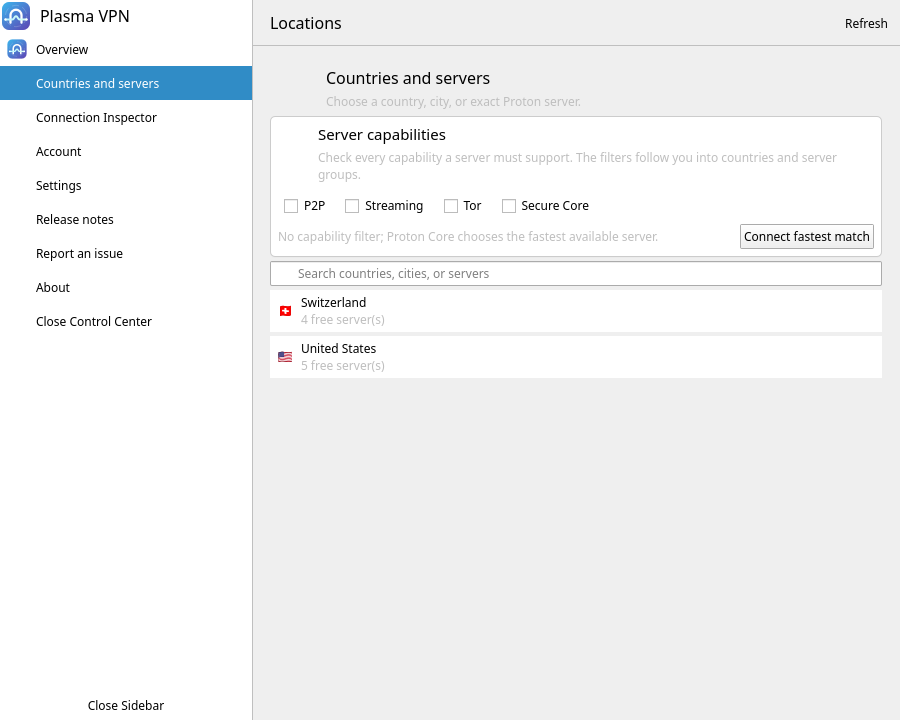
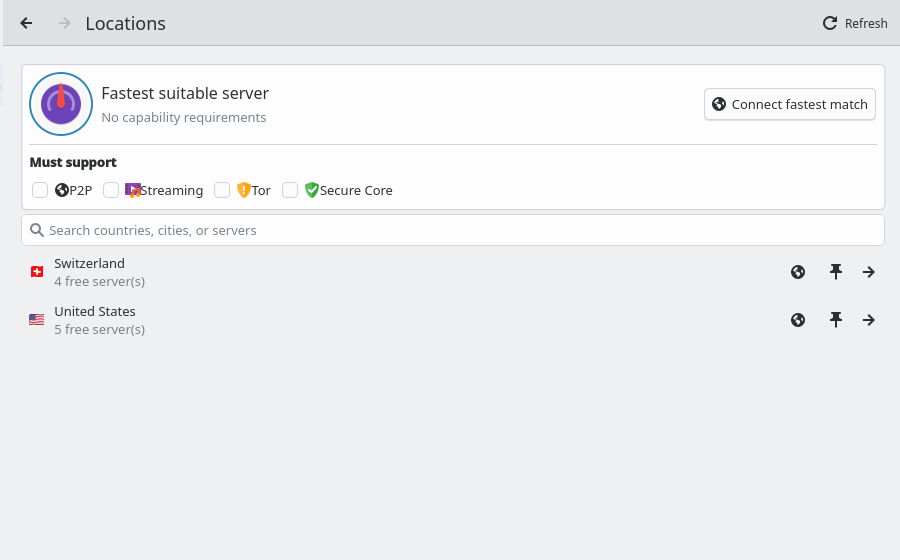
Refine server discovery hierarchy

diff --git a/qml/LocationsPage.qml b/qml/LocationsPage.qml
@@ -13,6 +13,27 @@ Kirigami.Page {
     readonly property bool searching: searchField.text.trim().length > 0
     property var requiredCapabilities: []
 
+    function capabilityName(capability) {
+        const labels = {
+            "p2p": qsTr("P2P"),
+            "streaming": qsTr("Streaming"),
+            "tor": qsTr("Tor"),
+            "secure-core": qsTr("Secure Core")
+        }
+        return labels[capability] ?? capability
+    }
+
+    function capabilitySummary() {
+        if (requiredCapabilities.length === 0) {
+            return qsTr("No capability requirements")
+        }
+        const labels = []
+        for (const capability of requiredCapabilities) {
+            labels.push(capabilityName(capability))
+        }
+        return labels.join(" + ")
+    }
+
     function openCountry(code, name, flag, accessible, underMaintenance) {
         applicationWindow().pushCountry({
                 "countryCode": code,
@@ -155,57 +176,102 @@ Kirigami.Page {
         anchors.fill: parent
         spacing: Kirigami.Units.smallSpacing
 
-        PageHeader {
-            heading: qsTr("Countries and servers")
-            description: qsTr("Choose a country, city, or exact Proton server.")
-            iconName: "network-server"
-        }
+        Kirigami.AbstractCard {
+            id: fastestCard
 
-        SectionCard {
-            title: qsTr("Server capabilities")
-            description: qsTr("Check every capability a server must support. The filters follow you into countries and server groups.")
-            iconName: "speedometer"
+            objectName: "fastestServerCard"
+            Layout.fillWidth: true
 
-            ServerCapabilitySelector {
-                Layout.fillWidth: true
-                selectedFeatures: page.requiredCapabilities
-                enabled: vpnController.userTier > 0
-                onSelectionChanged: function(features) {
-                    page.requiredCapabilities = features
+            contentItem: ColumnLayout {
+                spacing: Kirigami.Units.largeSpacing
+
+                RowLayout {
+                    Layout.fillWidth: true
+                    spacing: Kirigami.Units.largeSpacing
+
+                    Rectangle {
+                        Layout.preferredWidth: Kirigami.Units.iconSizes.huge
+                        Layout.preferredHeight: Kirigami.Units.iconSizes.huge
+                        radius: width / 2
+                        color: Kirigami.Theme.backgroundColor
+                        border.width: 2
+                        border.color: Kirigami.Theme.linkColor
+
+                        Rectangle {
+                            anchors.centerIn: parent
+                            width: parent.width - Kirigami.Units.largeSpacing
+                            height: width
+                            radius: width / 2
+                            color: Kirigami.Theme.alternateBackgroundColor
+                        }
+
+                        Kirigami.Icon {
+                            anchors.centerIn: parent
+                            source: "speedometer"
+                            color: Kirigami.Theme.linkColor
+                            implicitWidth: Kirigami.Units.iconSizes.large
+                            implicitHeight: implicitWidth
+                        }
+                    }
+
+                    ColumnLayout {
+                        Layout.fillWidth: true
+                        spacing: Kirigami.Units.smallSpacing
+
+                        Kirigami.Heading {
+                            Layout.fillWidth: true
+                            level: 2
+                            text: qsTr("Fastest suitable server")
+                            wrapMode: Text.WordWrap
+                        }
+
+                        Controls.Label {
+                            Layout.fillWidth: true
+                            text: page.capabilitySummary()
+                            color: page.requiredCapabilities.length > 0
+                                   ? Kirigami.Theme.linkColor
+                                   : Kirigami.Theme.disabledTextColor
+                            wrapMode: Text.WordWrap
+                        }
+                    }
+
+                    Controls.Button {
+                        text: qsTr("Connect fastest match")
+                        icon.name: "network-connect"
+                        enabled: vpnController.primaryActionEnabled
+                                 && (page.requiredCapabilities.length === 0
+                                     || vpnController.userTier > 0)
+                        onClicked: vpnController.connectFastestWithFeatures(
+                            page.requiredCapabilities)
+                    }
                 }
-            }
 
-            RowLayout {
-                Layout.fillWidth: true
+                Kirigami.Separator {
+                    Layout.fillWidth: true
+                }
 
                 Controls.Label {
                     Layout.fillWidth: true
-                    text: vpnController.userTier === 0
-                          ? qsTr("Specialized servers require Proton VPN Plus.")
-                          : page.requiredCapabilities.length === 0
-                            ? qsTr("No capability filter; Proton Core chooses the fastest available server.")
-                            : qsTr("Only servers matching every checked capability are eligible.")
+                    text: qsTr("Must support")
+                    font.bold: true
+                }
+
+                ServerCapabilitySelector {
+                    Layout.fillWidth: true
+                    selectedFeatures: page.requiredCapabilities
+                    enabled: vpnController.userTier > 0
+                    onSelectionChanged: function(features) {
+                        page.requiredCapabilities = features
+                    }
+                }
+
+                Controls.Label {
+                    Layout.fillWidth: true
+                    visible: vpnController.userTier === 0
+                    text: qsTr("Specialized servers require Proton VPN Plus.")
                     color: Kirigami.Theme.disabledTextColor
                     wrapMode: Text.WordWrap
                 }
-
-                Controls.Button {
-                    text: qsTr("Connect fastest match")
-                    icon.name: "network-connect"
-                    enabled: vpnController.primaryActionEnabled
-                             && (page.requiredCapabilities.length === 0
-                                 || vpnController.userTier > 0)
-                    onClicked: vpnController.connectFastestWithFeatures(
-                        page.requiredCapabilities)
-                }
-            }
-
-            Controls.Label {
-                Layout.fillWidth: true
-                visible: page.requiredCapabilities.length > 0
-                text: qsTr("Countries remain visible for navigation; incompatible groups and exact servers are hidden as you browse.")
-                color: Kirigami.Theme.disabledTextColor
-                wrapMode: Text.WordWrap
             }
         }
 

diff --git a/qml/ReleaseNotesPage.qml b/qml/ReleaseNotesPage.qml
@@ -84,6 +84,7 @@ Kirigami.ScrollablePage {
                     qsTr("An upper-right gear keeps diagnostics and project information close, while native Back navigation replaces the permanent sidebar."),
                     qsTr("Overview visualizes this device, its encrypted tunnel, and the VPN destination while keeping one obvious connection action."),
                     qsTr("Exact server, protocol, Secure Core entry, and forwarded-port facts now appear as compact icon-led controls on Connection; selecting them opens the relevant settings, Inspector, or copy action."),
+                    qsTr("Server discovery now leads with one graphical fastest-suitable action, keeps selected requirements visible, and uses native icon-led checkboxes before country and exact-server browsing."),
                     qsTr("Release notes are grouped into short, scannable changes, while earlier history stays collapsed until requested.")
                 ]
             }

diff --git a/qml/ServerCapabilitySelector.qml b/qml/ServerCapabilitySelector.qml
@@ -31,24 +31,28 @@ Flow {
 
     Controls.CheckBox {
         text: qsTr("P2P")
+        icon.name: "folder-network"
         checked: root.selectedFeatures.indexOf("p2p") >= 0
         onToggled: root.updateFeature("p2p", checked)
     }
 
     Controls.CheckBox {
         text: qsTr("Streaming")
+        icon.name: "applications-multimedia"
         checked: root.selectedFeatures.indexOf("streaming") >= 0
         onToggled: root.updateFeature("streaming", checked)
     }
 
     Controls.CheckBox {
         text: qsTr("Tor")
+        icon.name: "security-medium"
         checked: root.selectedFeatures.indexOf("tor") >= 0
         onToggled: root.updateFeature("tor", checked)
     }
 
     Controls.CheckBox {
         text: qsTr("Secure Core")
+        icon.name: "security-high"
         checked: root.selectedFeatures.indexOf("secure-core") >= 0
         onToggled: root.updateFeature("secure-core", checked)
     }

diff --git a/docs/ROADMAP.md b/docs/ROADMAP.md
@@ -43,16 +43,13 @@ The implementation constraints are:
 
 ### Delivery sequence
 
-1. Make server discovery progress from fastest suitable connection, through
-   visible capability criteria, to country, city, state, and exact-server
-   selection.
-2. Group Settings by user intent and disclose uncommon choices beside the
+1. Group Settings by user intent and disclose uncommon choices beside the
    setting they refine; keep applied changes on the same page.
-3. Refine sign-in, two-factor, security-key, Secret Service approval, error,
+2. Refine sign-in, two-factor, security-key, Secret Service approval, error,
    and recovery presentation without altering their established sequencing.
-4. Treat Connection Inspector, release history, support status, and technical
+3. Treat Connection Inspector, release history, support status, and technical
    details as on-demand depth rather than primary navigation competition.
-5. Verify compact and wide windows, keyboard-only use, screen-reader names,
+4. Verify compact and wide windows, keyboard-only use, screen-reader names,
    1.5x text, right-to-left layout, light and dark schemes, high contrast, and
    reduced motion before repeating the full release battery.
 
@@ -65,7 +62,6 @@ replace them.
 
 | Current surface | What already works | Presentation debt to resolve |
 | --- | --- | --- |
-| Countries and servers | Full hierarchy, search, capability combinations, pins, and fastest match | Establish a visible path from intent to criteria to exact server and keep selected criteria recognizable |
 | Settings | Complete native controls grouped into focused components | Lead with common outcomes and reveal exceptions locally instead of showing every choice with equal emphasis |
 | Sign in and Account | Correct startup routing and explicit multi-step authentication | Present only the active authentication step while keeping Secret Service waits and recovery unmistakable |
 | Connection Inspector | Bounded, read-only, on-demand detail | Open it from connection context and secondary navigation rather than competing with daily connection tasks |

diff --git a/docs/VISUAL-SYSTEM.md b/docs/VISUAL-SYSTEM.md
@@ -34,6 +34,13 @@ server, protocol, Secure Core entry, and forwarded-port facts remain compact,
 icon-led, and visible on the surface only when relevant. Selecting one opens the
 appropriate settings, copy action, or richer on-demand Inspector.
 
+Server discovery follows the same visual grammar without forcing list data
+into decorative cards. A single icon-led fastest-suitable surface states the
+current capability requirements and owns the primary connect action. Native
+checkboxes keep P2P, Streaming, Tor, and Secure Core requirements explicit;
+search and ordinary Plasma list rows then provide country, group, pin, load,
+and exact-server depth.
+
 Revealed content must not unexpectedly move the user to another page, reorder
 unrelated controls, or require memorizing a hidden choice. Preserve focus when
 content expands and give disclosure controls explicit accessible names and

diff --git a/CHANGELOG.md b/CHANGELOG.md
@@ -21,6 +21,10 @@ All notable user-visible changes are recorded here. The project follows
   compact icon-led facts on that surface; facts and capability badges open the
   relevant settings or Inspector depth without a redundant details modal. This
   does not change connection behavior.
+- Lead server discovery with one graphical fastest-suitable action, keep its
+  active capability requirements visible, and present the existing P2P,
+  Streaming, Tor, and Secure Core requirements as native icon-led checkboxes
+  before country, location, and exact-server browsing.
 - Add an on-demand Connection Inspector for live server capabilities,
   protection configuration, and local runtime state using only existing
   non-sensitive Core snapshots.
